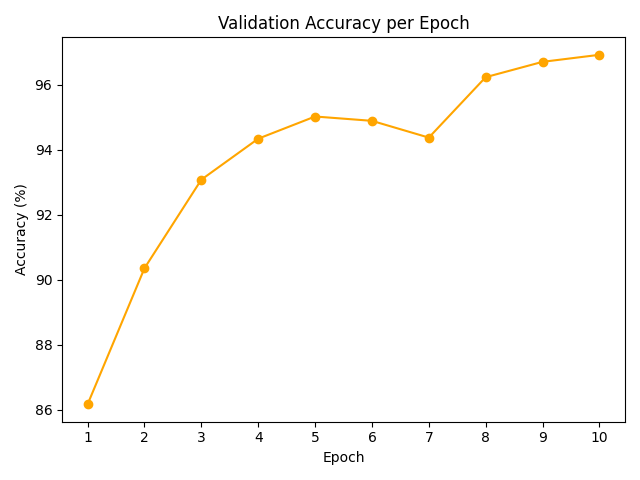
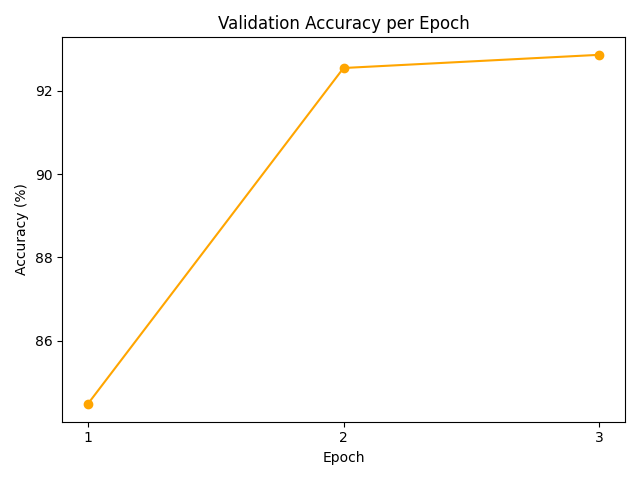
separate plotting script. fixed prblm where evaluate was printing accuracy for epochs

diff --git a/src/Centralized_Training/centralised_ML.py b/src/Centralized_Training/centralised_ML.py
@@ -6,7 +6,7 @@ import torch.optim as optim
 from torch.utils.data import DataLoader
 from torch.utils.data import random_split
 
-import matplotlib.pyplot as plt
+
 
 import sys
 import os
@@ -14,6 +14,10 @@ sys.path.append(os.path.abspath("../.."))
 
 from src.client_training import train_local, evaluate_model
 from src.CNN_implementation import CNN
+
+from src.plotting import plot_loss, plot_acc
+
+
 # %%
 # We will need to convert image to tensors
 # here we define a transform
@@ -45,7 +49,7 @@ print(out.shape)
 
 # %%
 #Train
-number_of_epochs = 10
+number_of_epochs = 3
 
 train_loader = DataLoader(mnist_trainset, batch_size = 64, shuffle = True)
 val_loader = DataLoader(mnist_valset, batch_size = 64, shuffle = False)
@@ -56,31 +60,12 @@ _, losses, val_accuracies = train_local( model, train_loader, val_loader, number
 # Test the accuracy on test data
 test_loader = DataLoader(mnist_testset, batch_size = 64, shuffle = False)# loading
 
-test_accuracy = evaluate_model(test_loader, model)
+test_accuracy = evaluate_model(test_loader, model, True)
 print(f"Test Accuracy: {test_accuracy:.2f}%")
 
-epochs = range(1, number_of_epochs + 1)
 
-#loss plot
-plt.figure()
-plt.plot(epochs, losses, marker='o')
-plt.title('Training Loss per Epoch')
-plt.xlabel('Epoch')
-plt.ylabel('Loss')
-plt.xticks(epochs)
-plt.tight_layout()
-plt.savefig('loss.png')
-plt.show()
+plot_loss(number_of_epochs, losses)
+plot_acc(number_of_epochs, val_accuracies)
 
-#acc plot
-plt.figure()
-plt.plot(epochs, val_accuracies, marker='o', color='orange')
-plt.title('Validation Accuracy per Epoch')
-plt.xlabel('Epoch')
-plt.ylabel('Accuracy (%)')
-plt.xticks(epochs)
-plt.tight_layout()
-plt.savefig('accuracy.png')
-plt.show()
 
 

diff --git a/src/client_training.py b/src/client_training.py
@@ -23,7 +23,7 @@ def train_local(model, train_loader, val_loader = None, number_of_epochs = 1, lr
         avg_loss = running_loss / len(train_loader)
         losses.append(avg_loss) 
         if val_loader is not None:
-            val_accuracy = evaluate_model(val_loader, model)
+            val_accuracy = evaluate_model(val_loader, model, False)
             val_accuracies.append(val_accuracy)
             print(f"Epoch {epoch+1}/{number_of_epochs}, Loss: {avg_loss:.4f}, Val Acc: {val_accuracy:.4f}")
         else:
@@ -34,7 +34,7 @@ def train_local(model, train_loader, val_loader = None, number_of_epochs = 1, lr
 # weights = train_local(client_model, client_loaders[0], epochs = 1, lr = 0.1)
 # print(weights.keys())
 
-def evaluate_model(dataloader, global_model):
+def evaluate_model(dataloader, global_model, is_final):
     # test_loader = DataLoader(mnist_testset, batch_size=64, shuffle=False)
     global_model.eval()
     correct = 0
@@ -47,7 +47,10 @@ def evaluate_model(dataloader, global_model):
             total += labels.size(0) # add batch size to keep track of processed batches
             correct += (predicted == labels).sum().item()
     accuracy = (correct / total)*100
-    print(f'Accuracy {accuracy}%\n')
+    if(is_final):
+        print(f'Accuracy {accuracy}%\n')
+    
+    
     return accuracy
 
 def aggregate(number_of_samples, client_state_dictionary, global_model):

diff --git a/src/plotting.py b/src/plotting.py
@@ -1,0 +1,31 @@
+import matplotlib.pyplot as plt
+
+def plot_loss(number_of_epochs, losses):
+    epochs = range(1, number_of_epochs + 1)
+
+#loss plot
+    plt.figure()
+    plt.plot(epochs, losses, marker='o')
+    plt.title('Training Loss per Epoch')
+    plt.xlabel('Epoch')
+    plt.ylabel('Loss')
+    plt.xticks(epochs)
+    plt.tight_layout()
+    plt.savefig('loss.png')
+    plt.show()
+    
+
+
+def plot_acc(number_of_epochs, val_accuracies):
+    epochs = range(1, number_of_epochs + 1)
+    #acc plot
+    plt.figure()
+    plt.plot(epochs, val_accuracies, marker='o', color='orange')
+    plt.title('Validation Accuracy per Epoch')
+    plt.xlabel('Epoch')
+    plt.ylabel('Accuracy (%)')
+    plt.xticks(epochs)
+    plt.tight_layout()
+    plt.savefig('accuracy.png')
+    plt.show()
+
